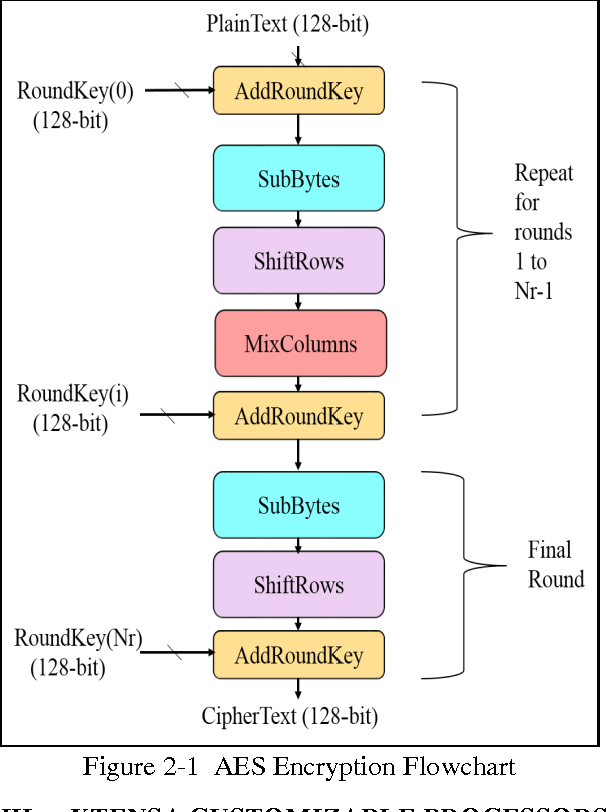
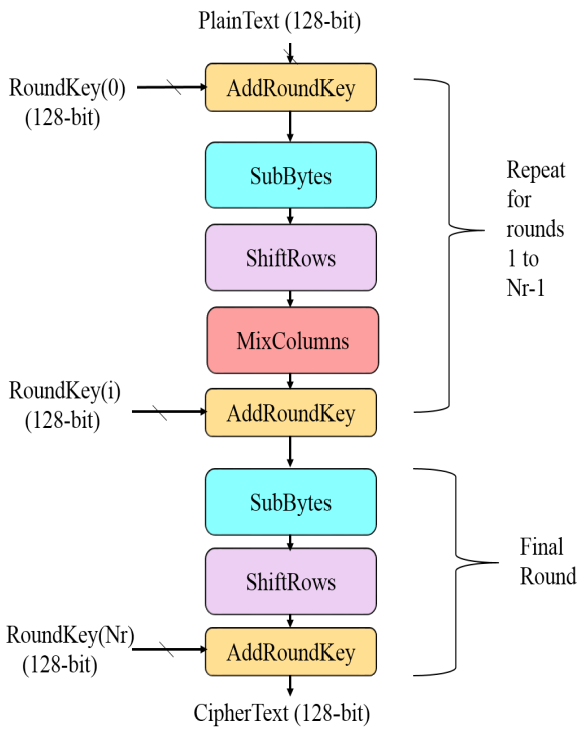
filled in placeholder results

Changed region(s): [[0.0, 0.0, 1.0, 1.0], [0.1227, 0.9878, 0.276, 1.0], [0.0, 0.9878, 0.0613, 1.0]]

diff --git a/main.py b/main.py
@@ -73,14 +73,14 @@ DECISION_INFO = {
 
 # (decision, value) -> (performance effect, cache-security effect) for the results screen
 EFFECTS = {
-    ("sbox", True): ("placeholder_performance_effect_1", "placeholder_security_effect_1"),
-    ("sbox", False): ("placeholder_performance_effect_2", "placeholder_security_effect_2"),
-    ("ttable", True): ("placeholder_performance_effect_3", "placeholder_security_effect_3"),
-    ("ttable", False): ("placeholder_performance_effect_4", "placeholder_security_effect_4"),
-    ("masking", True): ("placeholder_performance_effect_5", "placeholder_security_effect_5"),
-    ("masking", False): ("placeholder_performance_effect_6", "placeholder_security_effect_6"),
-    ("hw", True): ("placeholder_performance_effect_7", "placeholder_security_effect_7"),
-    ("hw", False): ("placeholder_performance_effect_8", "placeholder_security_effect_8"),
+    ("sbox", True): ("Speeds up performance, replacing computation with faster lookups", "Using lookup tables opens up the posibility of Cache Timing leakages"),
+    ("sbox", False): ("Computing SubBytes in real time is slower than S-box lookups", "Avoiding lookup tables prevents the most common source of Cache Timing leakages"),
+    ("ttable", True): ("Speeds up performance, combining multiple steps of computation into one lookup", "Greatly increases the amount of information leaked in Cache Timing attacks"),
+    ("ttable", False): ("Performing SubBytes, MixColumns, and MixRows separately is slower than one lookup", "Prevents more informantion to be leaked than from just sboxes"),
+    ("masking", True): ("Generating pseudorandom values and tables to be recomputed adds significant computation time", "First order Boolean masking increases the leakage noise exponentially by a power of 2, improving security"),
+    ("masking", False): ("Applying no mask keeps computation the same", "Applying no mask keeps security the same"),
+    ("hw", True): ("Specialized chips execute AES computation more efficiently speeding up computation", "Specialized chips have minimal impact on Cache Timing attack security"),
+    ("hw", False): ("Standard Processors generally use more instuctions and have a longer runtime", "Using a Standard Processor has minimal impact on Cache Timing attack security"),
 }
 
 # QUESTION PLACEHOLDERS: replace with real questions
@@ -152,18 +152,18 @@ PREDICTION_QUESTIONS = {
         answer=1, explanation="Without dedicated AES instructions, a general-purpose processor may need to execute multiple ordinary instructions to perform AES operations such as SubBytes and MixColumns. This can increase encryption time compared with hardware-accelerated AES. The processor can still implement AES correctly, and its vulnerability to cache attacks depends on the implementation—for example, whether it uses secret-dependent lookup tables."),
 }
 
-# Three separate questions for the final assessment.
-ASSESSMENT = [
-    dict(q="Why can two systems use the same AES algorithm but have different encryption performance?",
-        options=["Each system uses a different mathematical encryption algorithm, even if both are called AES.", "Different implementations can perform AES operations differently, such as using lookup tables, ordinary processor instructions, or specialized AES hardware.", "A system that encrypts messages more slowly must use a longer AES key.", "The AES algorithm automatically changes its number of operations depending on how fast the processor is."],
-        answer=1, explanation="AES defines the encryption operations, but implementations can execute those operations in different ways. Lookup tables and specialized processor instructions can improve performance, while computing operations using ordinary instructions may require more work."),
-    dict(q="Why can an AES implementation that uses lookup tables be vulnerable to cache timing attacks?",
-        options=["Lookup tables store the secret key in plaintext, allowing an attacker to read it directly.", "Lookup tables cause AES to skip some encryption rounds, making the ciphertext easier to decrypt.", "The locations accessed in a lookup table can depend on secret-related values, and those accesses can affect observable cache timing.", "Lookup tables prevent the processor from using its cache efficiently, making all memory accesses slower."],
-        answer=2, explanation="The memory locations accessed during AES may depend on intermediate values involving the secret key. Because cache hits and misses take different amounts of time, an attacker may use timing observations to infer information about the lookup patterns and potentially the key."),
-    dict(q="How can an attacker use differences between cache hits and cache misses to learn information about an AES computation?",
-        options=["By measuring execution times and using timing differences to infer which memory locations were accessed.", "By reading every value stored in the processor's cache without interacting with the system.", "By making cache misses change the mathematical operations performed by AES.", "By forcing AES to encrypt messages without using its secret key."],
-        answer=0, explanation="Cache hits are generally faster than cache misses. By measuring timing differences across repeated operations, an attacker may infer memory access patterns and learn information about secret-dependent computations. This does not automatically reveal the entire secret key or plaintext."),
-]
+# # Three separate questions for the final assessment.
+# ASSESSMENT = [
+#     dict(q="Why can two systems use the same AES algorithm but have different encryption performance?",
+#         options=["Each system uses a different mathematical encryption algorithm, even if both are called AES.", "Different implementations can perform AES operations differently, such as using lookup tables, ordinary processor instructions, or specialized AES hardware.", "A system that encrypts messages more slowly must use a longer AES key.", "The AES algorithm automatically changes its number of operations depending on how fast the processor is."],
+#         answer=1, explanation="AES defines the encryption operations, but implementations can execute those operations in different ways. Lookup tables and specialized processor instructions can improve performance, while computing operations using ordinary instructions may require more work."),
+#     dict(q="Why can an AES implementation that uses lookup tables be vulnerable to cache timing attacks?",
+#         options=["Lookup tables store the secret key in plaintext, allowing an attacker to read it directly.", "Lookup tables cause AES to skip some encryption rounds, making the ciphertext easier to decrypt.", "The locations accessed in a lookup table can depend on secret-related values, and those accesses can affect observable cache timing.", "Lookup tables prevent the processor from using its cache efficiently, making all memory accesses slower."],
+#         answer=2, explanation="The memory locations accessed during AES may depend on intermediate values involving the secret key. Because cache hits and misses take different amounts of time, an attacker may use timing observations to infer information about the lookup patterns and potentially the key."),
+#     dict(q="How can an attacker use differences between cache hits and cache misses to learn information about an AES computation?",
+#         options=["By measuring execution times and using timing differences to infer which memory locations were accessed.", "By reading every value stored in the processor's cache without interacting with the system.", "By making cache misses change the mathematical operations performed by AES.", "By forcing AES to encrypt messages without using its secret key."],
+#         answer=0, explanation="Cache hits are generally faster than cache misses. By measuring timing differences across repeated operations, an attacker may infer memory access patterns and learn information about secret-dependent computations. This does not automatically reveal the entire secret key or plaintext."),
+# ]
 
 # ------------------- game rules --------------------
 DECISIONS = ["sbox", "ttable", "masking", "hw"]
@@ -188,9 +188,11 @@ MASKING_COMPONENT = 2  # (https://scispace.com/pdf/towards-sound-approaches-to-c
 NO_ATTACK_CAP = 23_726_566   # traces the simulated attacker can gather before the lifetime of the key is over (number of encryptions before the key must be changed) (https://www.ietf.org/archive/id/draft-ietf-tls-rfc8446bis-13.html section 5.5, defines a key lifetime of 2^24.5 records for AES-GCM, which is 23,726,566.4, round down to 23,726,566)
 
 def is_available(decision, choices):
-    """T-tables build on S-box tables; masking protects table lookups."""
+    """T-tables build on S-box tables; masking protects table lookups. Specialized Hardware really needs computation to be done, not T-tables."""
     if decision in ("ttable", "masking"):
         return choices.get("sbox") is True
+    if decision in ("hw"):
+        return choices.get("ttable") is False
     return True
 
 def next_decision(choices):
@@ -203,6 +205,7 @@ def skipped_decisions(choices):
     return [d for d in DECISIONS if d not in choices and not is_available(d, choices)]
 
 def per_message_delay(choices):
+    """Set the length of per message encryption delay to simulate processing time for each design option."""
     f = BASE_DELAY
     if choices.get("sbox"):
         f /= SBOX_SPEEDUP
@@ -224,12 +227,16 @@ def traces_needed(choices):
 
 def explain_attack(choices, traces):
     if traces is None:
-        return "placeholder_attack_explanation_1"
-    s = "placeholder_attack_explanation_2 "
-    s += ("placeholder_attack_explanation_3"
-          if choices.get("masking") else
-          "placeholder_attack_explanation_4")
-    return s
+        return "By performing SubByte claculations in real time, or in specialized hardware, you avoided using secret-dependent table accesses. Your AES implementation may not be completely immune to cache timing leakage attacks, but it is secure against the most effective and well known attack methods. The attacker can not gain enough information to recover the secret key in within 2^24.5 (~23,726,566) encryptions, the standard lifetime of an AES key set by TLS Version 1.3. Your implementation is secure!"
+    if choices.get("ttable") and not choices.get("masking"):
+        return "By performing SubBytes, MixColumns, and ShiftRows together as T-tables, you created an implementation that is known to be vulnerable to cache timing attacks. The larger T-tables fill up a larger number of cache lines compared to S-boxes, so the attacker is more likely to learn information from each message encryption. Targetting the final round of encryption, the worst case attack on T-table implementations watching for collisions within rounds of encryption can recover the key within 2^13 (8192) encryptions. This is well within 2^24.5 (~23,726,566) encryptions, the standard lifetime of an AES key set by TLS Version 1.3. Consider incorporating masking to increase leakage noise, or move away from T-tables. Your implementation is not secure!"
+    if choices.get("ttable") and choices.get("masking"):
+        return "Traditionally, performing SubBytes, MixColumns, and ShiftRows together as T-tables is an implementation that is known to be vulnerable to cache timing attacks. The larger T-tables fill up a larger number of cache lines compared to S-boxes, so the attacker is more likely to learn information from each message encryption. Targetting the final round of encryption, the worst case attack on T-table implementations watching for collisions within rounds of encryption can recover the key within 2^13 (8192) encryptions. However, first order Boolean masking splits each value into 2 shares, a mask and a masked value. As a result, the leakage noise of the system increases expoenentially by a power of 2. We model this as increasing the number of encryptions needed from 8192 to (8192)^2 (67,108,864). This is on a similar order to 2^24.5 (~23,726,566) encryptions, the standard lifetime of an AES key set by TLS Version 1.3. While the entire key was not recovered, there is significant information leaked. Your implementation is partially secure!"
+    if choices.get("sbox") and not choices.get("masking"):
+        return "By performing SubBytes with precomputed S-boxes, you have an implementation that is partially vulnerable to cache timing attacks. It is more secure to cache timing leakages than using T-tables, as 1024 byte S-boxes have been shown to increase the number of traces an attacker needs to recover the secret key by a factor of 3386. This means the attacker needs 8192 * 3386 traces, or 27,738,112 encryptions. This is slightly greater than 2^24.5 (~23,726,566) encryptions, the standard lifetime of an AES key set by TLS Version 1.3. However, this does not guarantee a secure system, as significant information can still be leaked within the lifetime of the key. Your implementation is partially secure!"
+    if choices.get("sbox") and choices.get("masking"):
+        return "Traditionally, performing SubBytes with precomputed S-boxes creates an implementation that is partially vulnerable to cache timing attacks. It is more secure to cache timing leakages than using T-tables, as 1024 byte S-boxes have been shown to increase the number of traces an attacker needs to recover the secret key by a factor of 3386. This means the attacker needs 8192 * 3386 traces, or 27,738,112 encryptions. However, first order Boolean masking splits each value into 2 shares, a mask and a masked value. As a result, the leakage noise of the system increases expoenentially by a power of 2. We model this as increasing the number of encryptions needed from 27,738,112 to (27,738,112)^2 (769,402,857,324,544). This is significantly greater than 2^24.5 (~23,726,566) encryptions, the standard lifetime of an AES key set by TLS Version 1.3, so the attacker can not gain enough information to recover the secret key. Your implementation is secure!"
+    return "Unknown outcome"
 
 @dataclass
 class GameState:
@@ -561,7 +568,7 @@ class AttackScreen(Screen):
         super().__init__(app, "Simulated cache timing attack")
         self.traces = traces_needed(self.game.choices)
         self.game.traces = self.traces
-        self.label(self.body, "placeholder_attack_description_1").pack(anchor="w")
+        self.label(self.body, "The attacker will attempt to collect enough traces to recover your secret key.").pack(anchor="w")
         self.counter = ttk.Label(self.body, text="Traces collected: 0", style="Q.TLabel")
         self.counter.pack(anchor="w", pady=(14, 4))
         self.bar = ttk.Progressbar(self.body, length=500, maximum=self.STEPS)
@@ -576,7 +583,7 @@ class AttackScreen(Screen):
 
     def run(self):
         self.step += 1
-        target = self.traces or NO_ATTACK_CAP
+        target = min(self.traces, NO_ATTACK_CAP)
         self.bar["value"] = self.step
         self.counter.config(text=f"Traces collected: {int(target * self.step / self.STEPS):,}")
         if self.step < self.STEPS:
@@ -586,6 +593,9 @@ class AttackScreen(Screen):
 
     def conclude(self):
         if self.traces is None:
+            self.outcome.config(text=f"Attack failed: key NOT recovered after {NO_ATTACK_CAP:,} traces.",
+                                foreground="#1a7f37")
+        elif self.traces > NO_ATTACK_CAP:
             self.outcome.config(text=f"Attack failed: key NOT recovered after {NO_ATTACK_CAP:,} traces.",
                                 foreground="#1a7f37")
         else:
@@ -613,12 +623,17 @@ class ResultsScreen(Screen):
         correct = sum(ok for _, ok in g.predictions)
         total = ttk.LabelFrame(self.body, text="Overall", padding=10)
         total.pack(fill="x", pady=12)
-        t = "no practical attack found" if g.traces is None else f"{g.traces:,} traces to recover the key"
+        if g.traces is None:
+            t = "no practical attack found"
+        elif g.traces > NO_ATTACK_CAP:
+            t = f"key not recovered in {NO_ATTACK_CAP:,} traces"
+        else:
+            t = f"{g.traces:,} traces to recover the key"
         self.label(total, f"Total encryption time: {g.total_time:.1f} s\n"
                           f"Cache timing attack: {t}\n"
                           f"Prediction questions correct: {correct} of {len(g.predictions)}",
                    font=("Helvetica", 12)).pack(anchor="w")
-        self.label(self.body, "placeholder_results_summary_1", style="Sub.TLabel").pack(anchor="w")
+        self.label(self.body, "", style="Sub.TLabel").pack(anchor="w") # There was a placeholder results summary here, didn't know what exactly to put
         self.add_button("Final assessment", self.app.next_screen)
 
 class AssessmentScreen(Screen):
@@ -632,7 +647,7 @@ class AssessmentScreen(Screen):
         self.game.assessment_score, self.game.assessment_total = score, total
         self.quiz.destroy()
         ttk.Label(self.body, text=f"You scored {score} / {total}", style="Q.TLabel").pack(anchor="w", pady=20)
-        self.label(self.body, "placeholder_closing_message_1").pack(anchor="w")
+        self.label(self.body, "Thank you for playing our game!. You can now play again if you would like!").pack(anchor="w")
         self.add_button("Quit", self.app.destroy)
         self.add_button("Play again", self.app.restart)
 
